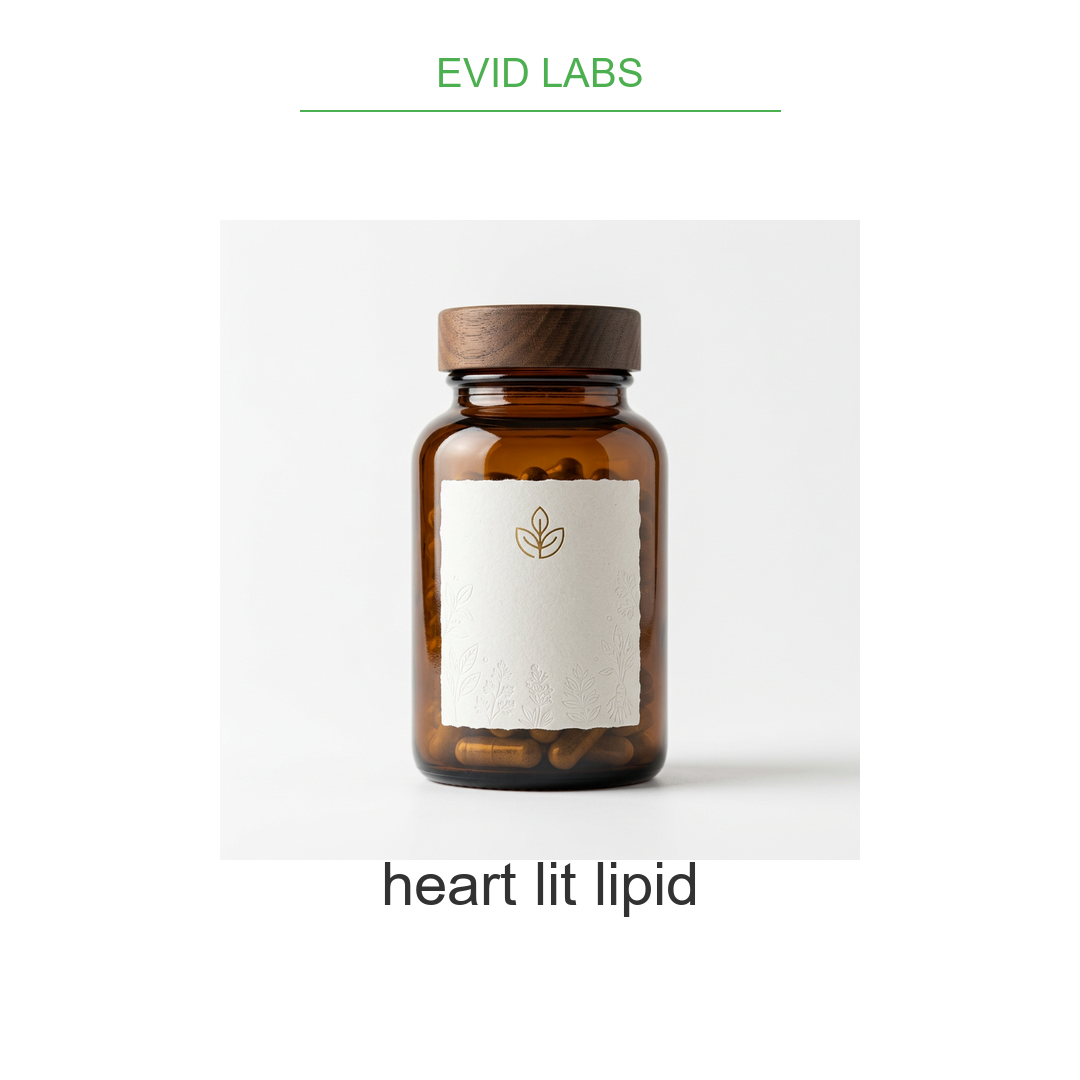
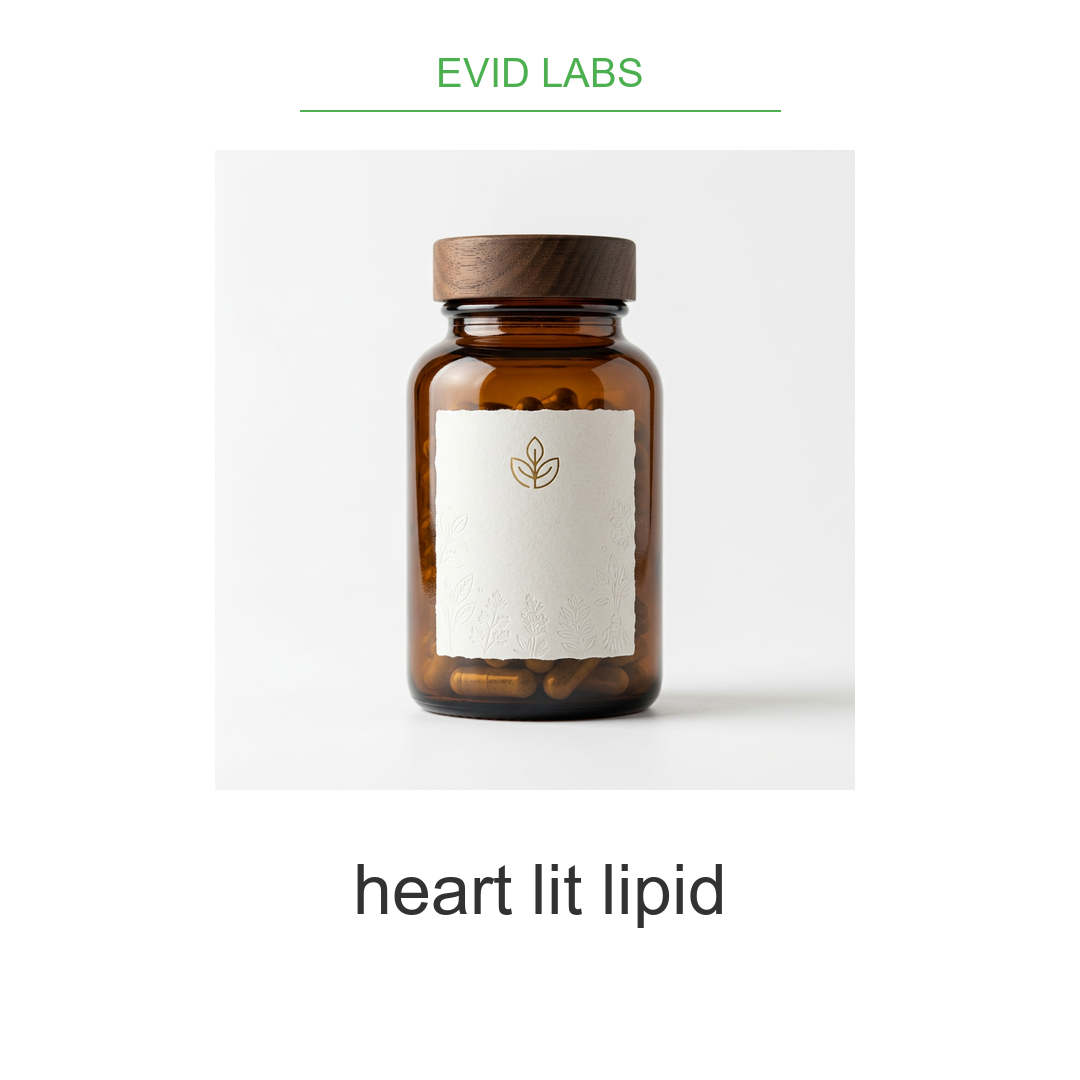
Add Heart Lipid Lite ad generation script and creatives

Changed region(s): [[0.3667, 0.2139, 0.7944, 0.7639], [0.3056, 0.7944, 0.6722, 0.8556]]

diff --git a/gmc_ads_generator/generate_heart_ads.py b/gmc_ads_generator/generate_heart_ads.py
@@ -1,0 +1,63 @@
+from generator import AdGenerator
+import os
+
+def generate_heart_ads():
+    # Extracted Details from User's Image
+    brand_name = "EVID LABS"
+    product_name = "Heart Lipid Lite"
+    price = "₹599" # Keeping the previous example price
+    
+    # Path to the product image (using the provided sample for now)
+    # The user can update this path to the actual "Heart Lipid Lite" image file.
+    product_image_path = "C:\\Users\\Main\\.gemini\\antigravity\\brain\\75c132c6-d0c9-41eb-8324-cff6b717fdde\\sample_wellness_product_1773650319659.png"
+    
+    ingredient_list = [
+        "Omega-3 (as Salmon Fish Oil)",
+        "CoQ10",
+        "Aged Garlic extract",
+        "Vitamin D3"
+    ]
+    
+    benefit_points = [
+        ("Omega-3", "Supports heart health"),
+        ("CoQ10", "Supports cellular energy"),
+        ("Aged Garlic", "Helps maintain healthy cholesterol"),
+        ("Vitamin D3", "Supports cardiovascular health")
+    ]
+    
+    wellness_headline = "Premium Cardiometabolic Support"
+    
+    how_to_use_steps = [
+        ("Step 1", "Take 2 softgels daily"),
+        ("Step 2", "Take 2 capsules daily"),
+        ("Step 3", "Consult your physician") # Following the text from the bottle
+    ]
+    
+    # Initialize Generator with the new brand color (using a darker blue/navy theme)
+    gen = AdGenerator(brand_name, product_name, price)
+    # Customize palette to match the image (Navy Blue)
+    gen.colors["accent"] = (25, 34, 69) # Dark Navy from image
+    gen.colors["bg_light"] = (240, 242, 245)
+    
+    print(f"Generating {product_name} Creatives...")
+    
+    export_folder = os.path.join(os.path.dirname(__file__), 'exports_heart')
+    if not os.path.exists(export_folder):
+        os.makedirs(export_folder)
+    
+    # Generate all 6 frames
+    frames = [
+        (gen.generate_frame_1_product_shot(product_image_path), "1_heart_product_shot.png"),
+        (gen.generate_frame_2_wellness_benefit(wellness_headline), "2_heart_wellness_benefit.png"),
+        (gen.generate_frame_3_ingredient_benefit(benefit_points), "3_heart_ingredient_benefit.png"),
+        (gen.generate_frame_4_how_to_use(how_to_use_steps), "4_heart_how_to_use.png"),
+        (gen.generate_frame_5_ingredient_list(ingredient_list), "5_heart_ingredient_list.png"),
+        (gen.generate_frame_6_offer_solution(product_image_path), "6_heart_offer_solution.png")
+    ]
+    
+    for canvas, filename in frames:
+        gen.save_frame(canvas, filename, output_dir=export_folder)
+        print(f"Saved {filename}")
+
+if __name__ == "__main__":
+    generate_heart_ads()
